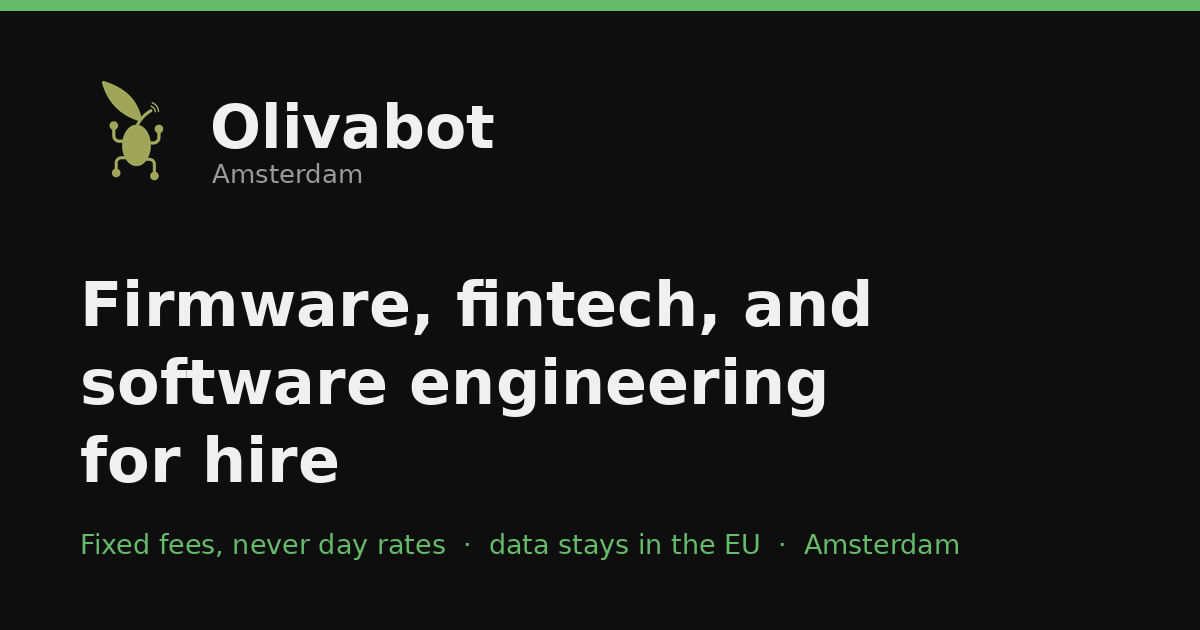
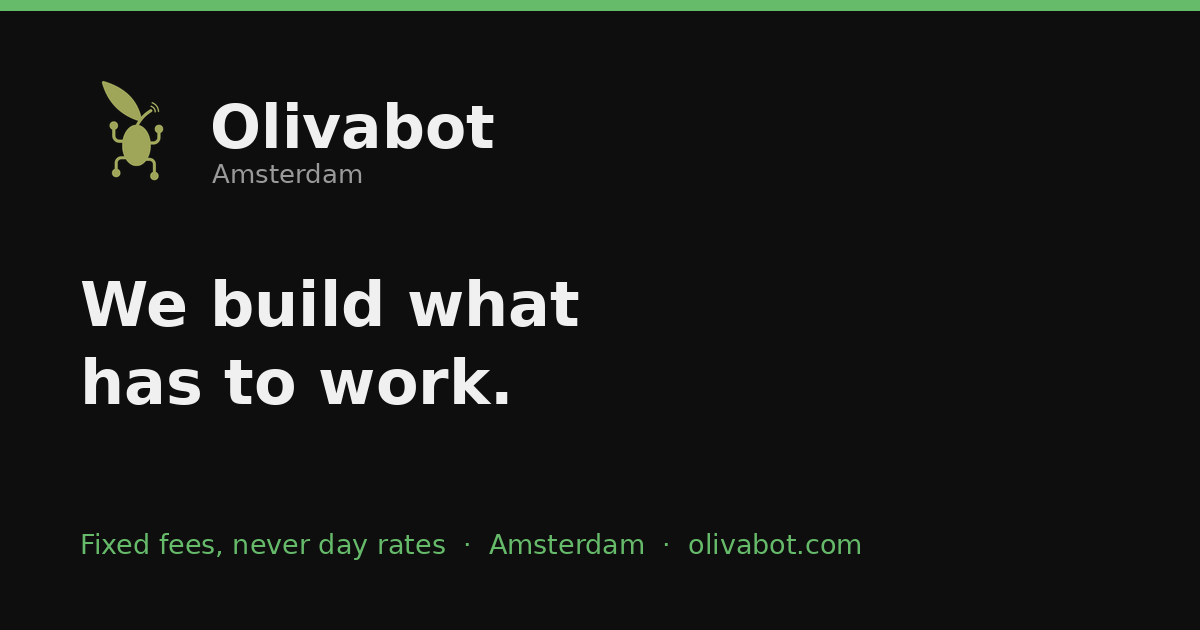
Simplify homepage messaging and branding around one clear line.
"We build what has to work" — fewer sections, three services, prices moved to the services page, updated social card.

diff --git a/en/index.html b/en/index.html
@@ -3,19 +3,19 @@
 <head>
     <meta charset="UTF-8" />
     <meta name="viewport" content="width=device-width, initial-scale=1" />
-    <title>Firmware and fintech consultancy, Amsterdam | Olivabot</title>
-    <meta name="description" content="Amsterdam engineering consultancy: firmware, fintech, and software with data in the EU. Fixed fees, no day rates. €500 assessment, projects €5,000–€10,000.">
+    <title>Engineering consultancy, Amsterdam | Olivabot</title>
+    <meta name="description" content="Olivabot B.V., Amsterdam. Firmware, software, and fintech engineering at a fixed price. Remote across the EU.">
     <link rel="canonical" href="https://olivabot.com/en/index.html" />
     <meta name="robots" content="index, follow, max-snippet:-1, max-image-preview:large, max-video-preview:-1" />
-    <meta property="og:title" content="Olivabot | Firmware, fintech and software consulting | Amsterdam" />
-    <meta property="og:description" content="Amsterdam engineering consultancy: firmware, fintech, EU-hosted software. Fixed fees, no day rates. €500 assessment, projects €5,000–€10,000." />
+    <meta property="og:title" content="Olivabot | Engineering consultancy, Amsterdam" />
+    <meta property="og:description" content="Firmware, software, and fintech engineering at a fixed price. Amsterdam, remote across the EU." />
     <meta property="og:type" content="website" />
     <meta property="og:url" content="https://olivabot.com/en/index.html" />
     <meta property="og:site_name" content="Olivabot" />
     <meta property="og:image" content="https://olivabot.com/assets/images/gibbon-bot/gibbot-bot-mk1/gibbot-bot-mk1-in-action-1.webp" />
     <meta name="twitter:card" content="summary_large_image" />
-    <meta name="twitter:title" content="Olivabot | Firmware, fintech and software consulting | Amsterdam" />
-    <meta name="twitter:description" content="Engineering consultancy in Amsterdam: firmware, fintech, EU-hosted software. Fixed fees, no day rates." />
+    <meta name="twitter:title" content="Olivabot | Engineering consultancy, Amsterdam" />
+    <meta name="twitter:description" content="Firmware, software, and fintech engineering at a fixed price. Amsterdam, remote across the EU." />
     <meta name="twitter:image" content="https://olivabot.com/assets/images/og-card.png" />
     <link rel="icon" href="../assets/images/favicon.ico" />
     <link rel="stylesheet" href="../assets/css/style.css?v=202608281" />
@@ -39,8 +39,8 @@
             {"@type": "PropertyValue", "name": "KVK", "value": "94493200"},
             {"@type": "PropertyValue", "name": "VAT", "value": "NL866797373B01"}
         ],
-        "description": "Olivabot B.V. is an engineering consultancy in Amsterdam. We take short engagements on firmware, fintech, computer vision, and web applications that keep data in the European Union, for hardware, fintech, agritech, and medtech teams across the EU. We also build our own arboreal robots for tree canopies.",
-        "slogan": "Engineering for teams that ship real hardware and real data",
+        "description": "Olivabot B.V. is an engineering consultancy in Amsterdam. Fixed-price firmware, software, and fintech work for teams across the EU. We also build our own arboreal robots.",
+        "slogan": "We build what has to work",
         "address": {
             "@type": "PostalAddress",
             "streetAddress": "De Boelelaan 1095a",
@@ -157,49 +157,35 @@
 <!-- partial:navbar:end -->
     <main>
         <section class="hero">
-            <h1>Firmware, fintech, and software engineering consultancy in Amsterdam</h1>
-            <p class="lede"><strong>Olivabot B.V.</strong> is a small engineering consultancy in <strong>Amsterdam</strong> that takes short engagements. Firmware for devices that have to sip a battery, engineering for fintech teams with a speed or correctness problem, and web apps and computer vision on a <strong>server in the EU</strong>. Remote across the European Union, invoiced from a Dutch BV.</p>
-            <p class="lede"><strong>We price outcomes, not hours.</strong> No day rate, no timesheet. Start with a <strong>€500</strong> assessment — a call and a written diagnosis you can act on — or bring us a defined piece of work for a fixed <strong>€5,000–€10,000</strong>. Larger engagements are quoted as one fee against an agreed result, from €10,000. All excluding VAT, all agreed before anything starts.</p>
+            <h1>We build what has to work.</h1>
+            <p class="lede"><strong>Olivabot B.V.</strong> is an engineering consultancy in <strong>Amsterdam</strong>. Firmware for devices, software that keeps data in Europe, fintech when something is too slow or has to be exactly right. Fixed price, agreed before we start. Remote across the EU.</p>
             <div class="hero-actions">
-                <a href="mailto:services@olivabot.com?subject=Project%20inquiry" class="cta-button">Email us your project</a>
-                <a href="services.html" class="secondary-link">See all services and prices</a>
+                <a href="mailto:services@olivabot.com?subject=Project%20inquiry" class="cta-button">Email your project</a>
+                <a href="services.html" class="secondary-link">Services and prices</a>
             </div>
         </section>
 
         <section class="proof">
-            <p>We built the motion sensing inside <a href="projects/madglove-sense.html">Madglove</a>’s rehabilitation orthosis — down to a battery, microcontroller, and sensor on a finger ring — and the water, soil, and infrared monitoring behind <a href="projects/mycosense.html">Mycofarming</a>’s mycofiltration systems. Olivabot started at <a href="dlab.html">DLAB</a>, the incubator of Vrije Universiteit Amsterdam.</p>
+            <p>We built the sensors inside <a href="projects/madglove-sense.html">Madglove</a>’s rehabilitation glove and the monitoring behind <a href="projects/mycosense.html">Mycofarming</a>’s mycofiltration systems. <a href="work.html">Client work</a> · started at <a href="dlab.html">DLAB</a>, VU Amsterdam.</p>
         </section>
 
         <section class="page-links">
-            <h2>What you can hire us for</h2>
+            <h2>What we do</h2>
             <div class="page-grid">
                 <div class="page-card">
                     <h3><a href="services/firmware.html">Firmware &amp; embedded</a></h3>
-                    <p>Battery life, BLE and LoRaWAN, sensor drivers, on-device AI, and the CAD for the enclosure. Small jobs welcome.</p>
-                    <span class="price-tag">€500 assessment · €5,000–€10,000 projects</span>
+                    <p>Battery life, radios, sensor drivers, on-device AI, CAD for the enclosure.</p>
                 </div>
                 <div class="page-card">
                     <h3><a href="services/fintech.html">Fintech engineering</a></h3>
-                    <p>Payments, ledgers, latency, and AI that keeps customer data in the EU. C++, Rust, Python.</p>
-                    <span class="price-tag">€2,500 deep assessment</span>
+                    <p>Payments, ledgers, latency, and data that stays in the EU.</p>
                 </div>
                 <div class="page-card">
                     <h3><a href="services/software.html">Software for devices &amp; data</a></h3>
-                    <p>Web apps, sensor dashboards, and computer vision, on a dedicated server in Europe.</p>
-                    <span class="price-tag">€5,000–€10,000</span>
-                </div>
-                <div class="page-card">
-                    <h3><a href="services/agriculture-robotics.html">Agricultural consulting</a></h3>
-                    <p>Which farm robot can help your crop now, and which cannot. 45-minute call plus a written report.</p>
-                    <span class="price-tag">€500</span>
-                </div>
-                <div class="page-card">
-                    <h3><a href="services/hosting.html">EU hosting &amp; maintenance</a></h3>
-                    <p>We run the server, backups, and security updates so the thing we built stays up and patched.</p>
-                    <span class="price-tag">from €150/month</span>
+                    <p>Web apps, dashboards, and computer vision on a server in Europe.</p>
                 </div>
             </div>
-            <p><a href="services.html">All services, in detail</a> · <a href="work.html">what we have built for clients</a></p>
+            <p>Also <a href="services/agriculture-robotics.html">agricultural consulting</a> and <a href="services/hosting.html">EU hosting</a>.</p>
         </section>
 
         <section class="robot-proof">
@@ -208,24 +194,14 @@
                 <p class="image-caption"><a href="projects/gibbon-bot.html">Gibbon Bot</a> mk.1, field-tested in olive groves, August 2025.</p>
             </div>
             <div>
-                <h2>We also build our own robots</h2>
-                <p><a href="projects/gibbon-bot.html">Gibbon Bot</a> is an arboreal robot that works in the tree canopy instead of compacting the soil under it — monitoring, pruning, inspection. Nobody paid us to build it, which is exactly why it is worth showing you.</p>
-                <p>The firmware, the battery budget, the vision models, the CAD, and the control software are all ours. That is the same work we do for clients, done on a machine that has to survive a real olive grove rather than a demo. If you want the reasoning behind it, read the <a href="projects/arboreal-robots.html">arboreal robots R&amp;D</a> notes or the <a href="projects/vision.html">Olivabot Vision</a> feasibility study.</p>
+                <h2>We also build robots</h2>
+                <p><a href="projects/gibbon-bot.html">Gibbon Bot</a> works in the tree canopy — monitoring, pruning, inspection — without compacting the soil underneath. Nobody paid us to build it. The firmware, vision, CAD, and control software are the same work we do for clients, on a machine that has to survive a real olive grove.</p>
             </div>
         </section>
 
         <section>
-            <h2>Is this you?</h2>
-            <ul class="features">
-                <li><strong>A hardware startup</strong> that needs firmware, sensing, or vision, but not another full-time engineer yet.</li>
-                <li><strong>A fintech team</strong> with something too slow, something that has to be exactly right, or customer data sitting outside the EU.</li>
-                <li><strong>Anyone with one specific broken thing</strong> — a driver, a battery budget, a bottleneck — who wants it fixed this month, not scoped for a quarter.</li>
-                <li><strong>A non-technical founder</strong> who needs something real to show investors, users, or a pilot customer.</li>
-                <li><strong>A grower or agritech team</strong> weighing up a robot purchase and wanting an answer that is not a vendor pitch.</li>
-            </ul>
-            <p>If it is a call, code, or CAD files, ask. If it needs a workshop, a production line, or a crew in a field, we will tell you honestly that it is not us.</p>
-            <p><a href="mailto:services@olivabot.com?subject=Project%20inquiry" class="cta-button">Email us your project</a></p>
-            <p>A few lines to <a href="mailto:services@olivabot.com">services@olivabot.com</a> is enough to get a quote. See <a href="contact.html">contact</a> for what to include.</p>
+            <p>Email <a href="mailto:services@olivabot.com">services@olivabot.com</a> with what is broken or what you need built. We reply within two working days with a fixed price, or tell you honestly if it is not us.</p>
+            <p><a href="mailto:services@olivabot.com?subject=Project%20inquiry" class="cta-button">Email your project</a></p>
         </section>
     </main>
 <!-- partial:footer:start (generated by tools/build-partials.py) -->

diff --git a/tools/build-og-image.py b/tools/build-og-image.py
@@ -41,13 +41,13 @@ def main() -> int:
 
     headline = ImageFont.truetype(BOLD, 62)
     for i, line in enumerate(
-        ["Firmware, fintech, and", "software engineering", "for hire"]
+        ["We build what", "has to work."]
     ):
         d.text((80, 268 + i * 78), line, font=headline, fill=FG)
 
     d.text(
         (80, 528),
-        "Fixed fees, never day rates  ·  data stays in the EU  ·  Amsterdam",
+        "Fixed fees, never day rates  ·  Amsterdam  ·  olivabot.com",
         font=ImageFont.truetype(REG, 27),
         fill=ACCENT,
     )
